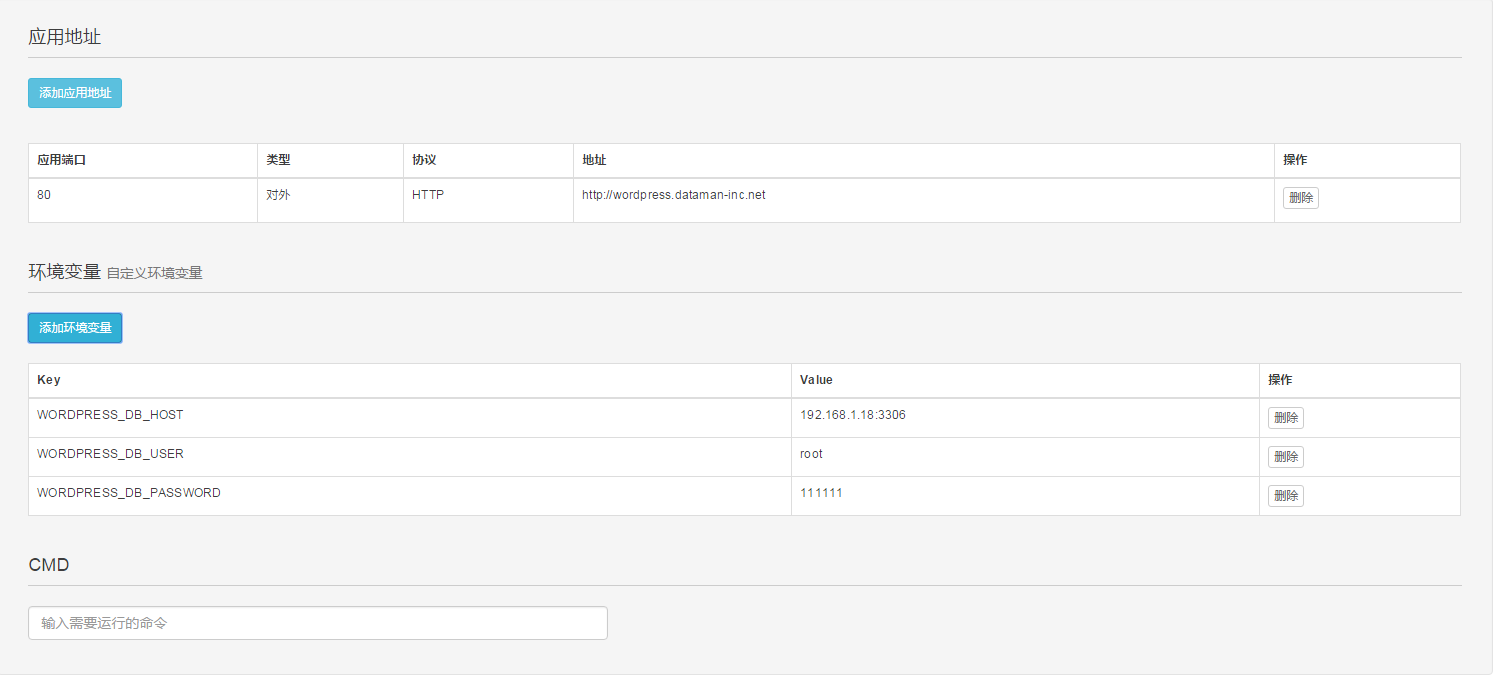
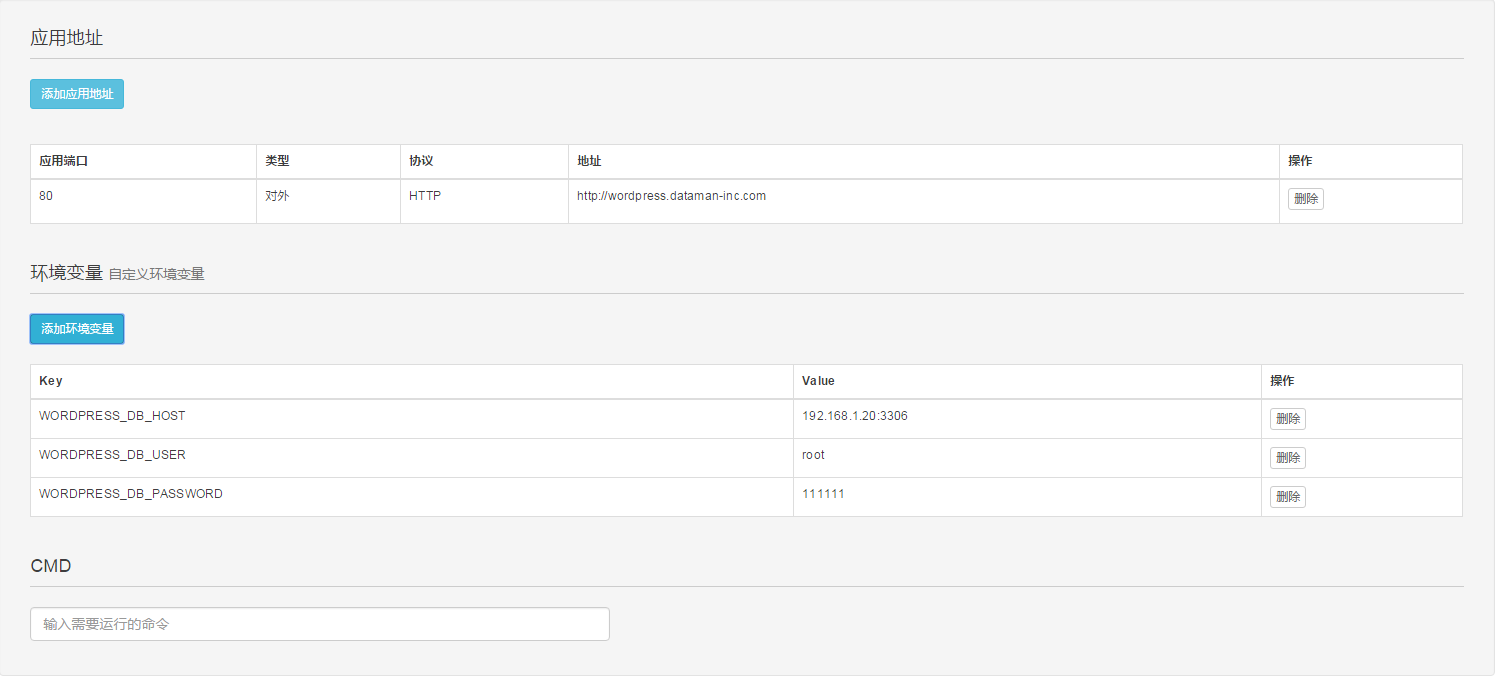
uodate

diff --git a/practice/wordpress.md b/practice/wordpress.md
@@ -137,7 +137,7 @@ Key:WORDPRESS_DB_USER  Value:root
 Key:WORDPRESS_DB_PASSWORD  Value:your-password
 ```  
 注1：应用地址选择对外标准 HTTP 时，需要配置相应的域名或外网 IP 到对外网关节点，以确保可以通过公网进行访问；  
-注2：配置 mysql 地址的环境变量时，mysql 地址应该为内部代理的 IP 和 mysql 的映射 IP，根据上述 mysql 配置，该地址为10.3.10.63:3306。
+注2：配置 mysql 地址的环境变量时，mysql 地址应该为内部代理的 IP 和 mysql 的映射 IP，根据上述 mysql 配置，该地址为192.168.1.20:3306。
 
 ![添加应用](add-wordpress2.png)  
 
